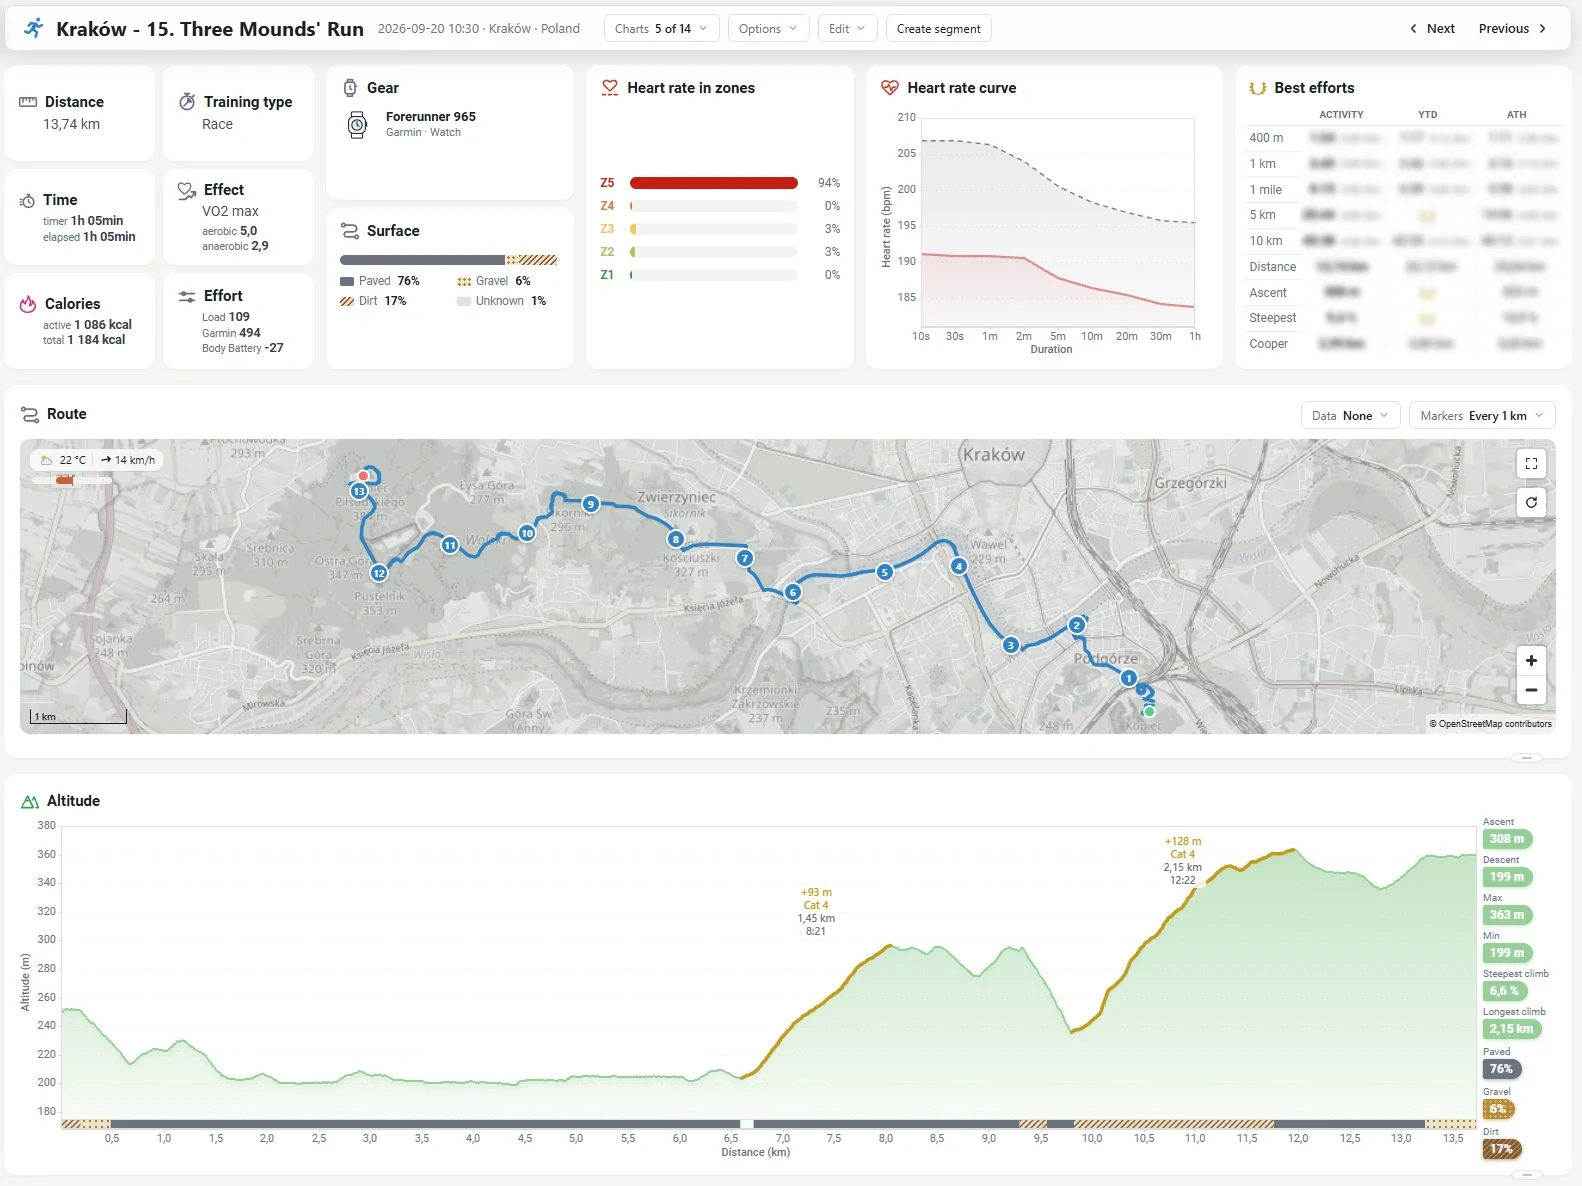
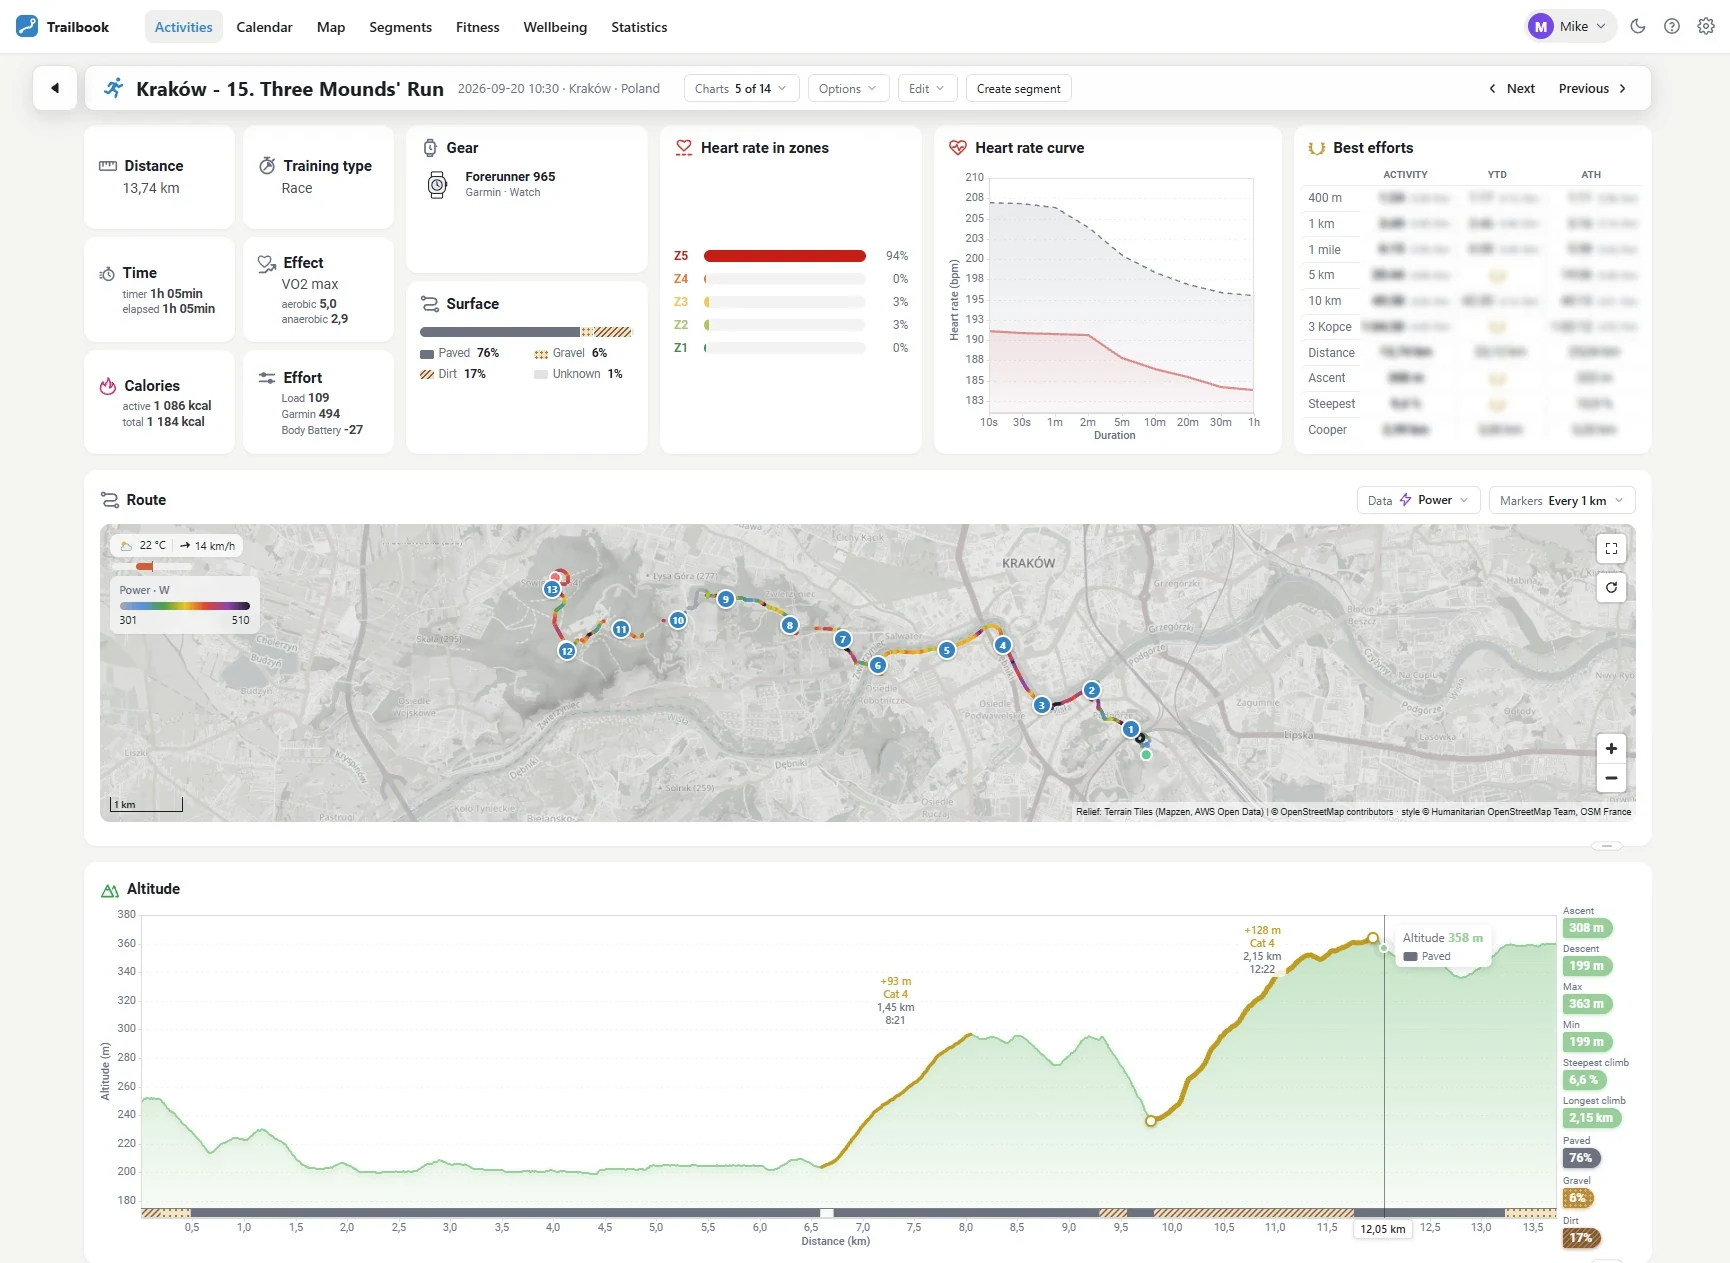
README: new main screenshot, fuller module descriptions

diff --git a/README.md b/README.md
@@ -38,41 +38,65 @@ export, FIT/GPX/TCX files) are there to bring in older history or a second devic
 
 ## Features
 
-**Activities** — every activity as tiles, charts or a table; 100+ sport types; easy, tempo,
-intervals or race detected for you.
+**Activities**
+- Every activity as tiles with its route, as small charts or as a sortable table.
+- 100+ sport types with their own icons; easy, tempo, intervals, hills, long or race is
+  detected for each run and ride.
 
-**Activity page** — the route coloured by pace or heart rate, charts with intervals and climbs,
-zones, curves, best efforts, road surface and the weather that helped or held you back.
+**Activity page**
+- The route coloured by pace, heart rate, power or gradient, with the road surface of every
+  stretch and the weather that helped or held you back.
+- Charts linked to the map, with intervals and categorised climbs marked; the targets of a
+  planned workout drawn in.
+- Zones, heart rate and power curves, training effect and load, and best efforts against
+  your year and all-time bests.
 
 <table><tr><td align="center" valign="top"><a href="docs/screenshots/heart-rate.png"><img src="docs/screenshots/heart-rate.png" alt="Activity › heart rate of an interval workout" width="520"></a><br><sub><em>Activity › heart rate of an interval workout</em></sub></td></tr></table>
 
 <table><tr><td align="center" valign="top"><a href="docs/screenshots/zones.png"><img src="docs/screenshots/zones.png" alt="Activity › zones, surface and power curve" width="330"></a><br><sub><em>Activity › zones, surface and power curve</em></sub></td><td align="center" valign="top"><a href="docs/screenshots/weather.png"><img src="docs/screenshots/weather.png" alt="Activity › weather on the route" width="210"></a><br><sub><em>Activity › weather on the route</em></sub></td></tr></table>
 
-**Calendar** — your weeks at a glance, a suggested next workout, and structured workouts sent
-to your Garmin watch.
+**Calendar**
+- Your weeks at a glance: each day's activities, steps, stress and forecast, the week's
+  totals per sport against your targets, and a year view.
+- **Next workout**: what to do next, from the last 7 days, your form and a training model
+  (polarized, pyramidal or threshold).
+- Build structured workouts and send them to your Garmin watch through intervals.icu.
 
 <table><tr><td align="center" valign="top"><a href="docs/screenshots/calendar.png"><img src="docs/screenshots/calendar.png" alt="Calendar with Next workout and workouts" width="430"></a><br><sub><em>Calendar with Next workout and workouts</em></sub></td><td align="center" valign="top"><a href="docs/screenshots/workout.png"><img src="docs/screenshots/workout.png" alt="Calendar › workout builder" width="300"></a><br><sub><em>Calendar › workout builder</em></sub></td></tr></table>
 
-**Map** — a heatmap of every route and the explorer tiles you have visited, on maps with
-shaded relief and marked trails.
+**Map**
+- A heatmap of every route, per person or all together.
+- Explorer tiles: every square you have visited, your biggest square and cluster, and how
+  much of a region you have covered.
+- Several base maps with shaded relief and marked hiking, cycling or MTB trails.
 
 <table><tr><td align="center" valign="top"><a href="docs/screenshots/map.webp"><img src="docs/screenshots/map.webp" alt="Map › Heatmap" width="390"></a><br><sub><em>Map › Heatmap</em></sub></td><td align="center" valign="top"><a href="docs/screenshots/tiles.webp"><img src="docs/screenshots/tiles.webp" alt="Map › Explorer tiles" width="390"></a><br><sub><em>Map › Explorer tiles</em></sub></td></tr></table>
 
-**Segments** — your own segments, matched automatically, with a leaderboard and a trend.
+**Segments**
+- Create them from an activity or by placing pins on the map; every activity that passes is
+  matched, in both directions if you like.
+- Best, average and latest effort, the trend over the years and a top 10 with the weather.
 
 <table><tr><td align="center" valign="top"><a href="docs/screenshots/segment.png"><img src="docs/screenshots/segment.png" alt="Segment" width="430"></a><br><sub><em>Segment</em></sub></td></tr></table>
 
-**Fitness** — training load, fitness, fatigue and form over time.
+**Fitness**
+- Training load of every activity from power, pace or heart rate.
+- Fitness, fatigue and form over time, with the form zones from fresh to overreaching.
 
 <table><tr><td align="center" valign="top"><a href="docs/screenshots/fitness.png"><img src="docs/screenshots/fitness.png" alt="Fitness › fitness, fatigue and form" width="520"></a><br><sub><em>Fitness › fitness, fatigue and form</em></sub></td></tr></table>
 
-**Statistics** — years compared, a timeline of when, where and in what weather you train,
-and your records.
+**Statistics**
+- **Compare years**: distance, activities and elevation per year, and every year as a line
+  with its running total.
+- **Timeline**: when, where and in what weather you train, and your explorer tiles growing.
+- **Records**: your best efforts and their curves for running, cycling, walking and hiking,
+  and segments, of all time or in any period.
 
 <table><tr><td align="center" valign="top"><a href="docs/screenshots/statistics.png"><img src="docs/screenshots/statistics.png" alt="Statistics › Compare years" width="260"></a><br><sub><em>Statistics › Compare years</em></sub></td><td align="center" valign="top"><a href="docs/screenshots/timeline.png"><img src="docs/screenshots/timeline.png" alt="Statistics › Timeline" width="260"></a><br><sub><em>Statistics › Timeline</em></sub></td><td align="center" valign="top"><a href="docs/screenshots/records.png"><img src="docs/screenshots/records.png" alt="Statistics › Records" width="260"></a><br><sub><em>Statistics › Records</em></sub></td></tr></table>
 
 **And more**
 - Several people in one install, and a side-by-side comparison of everyone.
+- New records as Home Assistant notifications and a sensor for your dashboards.
 - A built-in manual that explains every number.
 - Garmin Connect as the main source: the whole history, then every new activity on its own.
 - Older history from a Strava export, a folder or an upload; duplicates are skipped.
